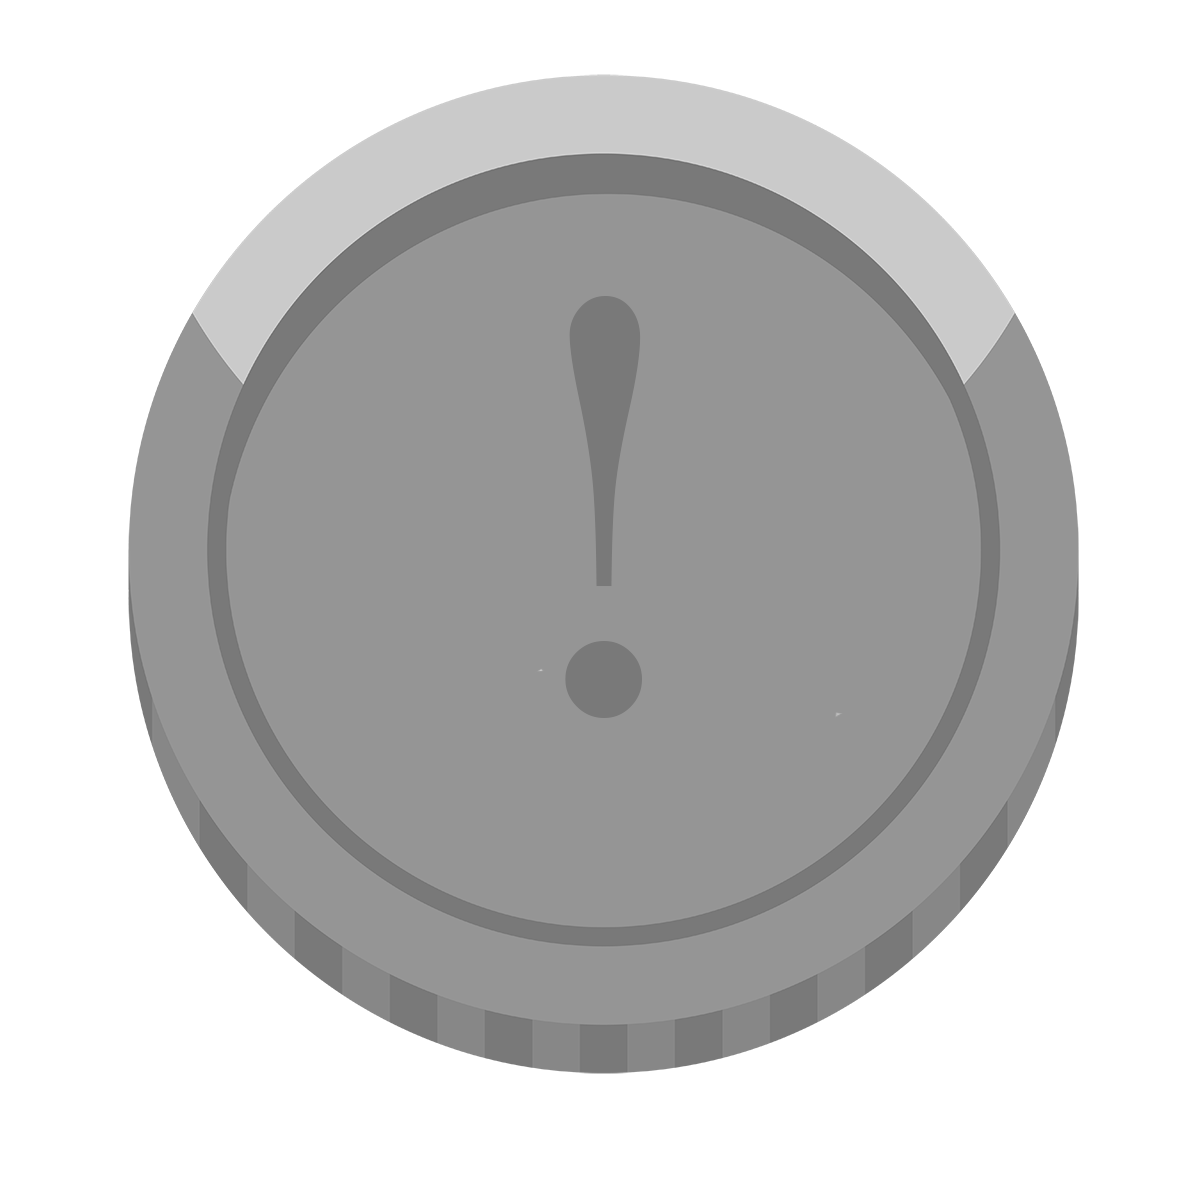
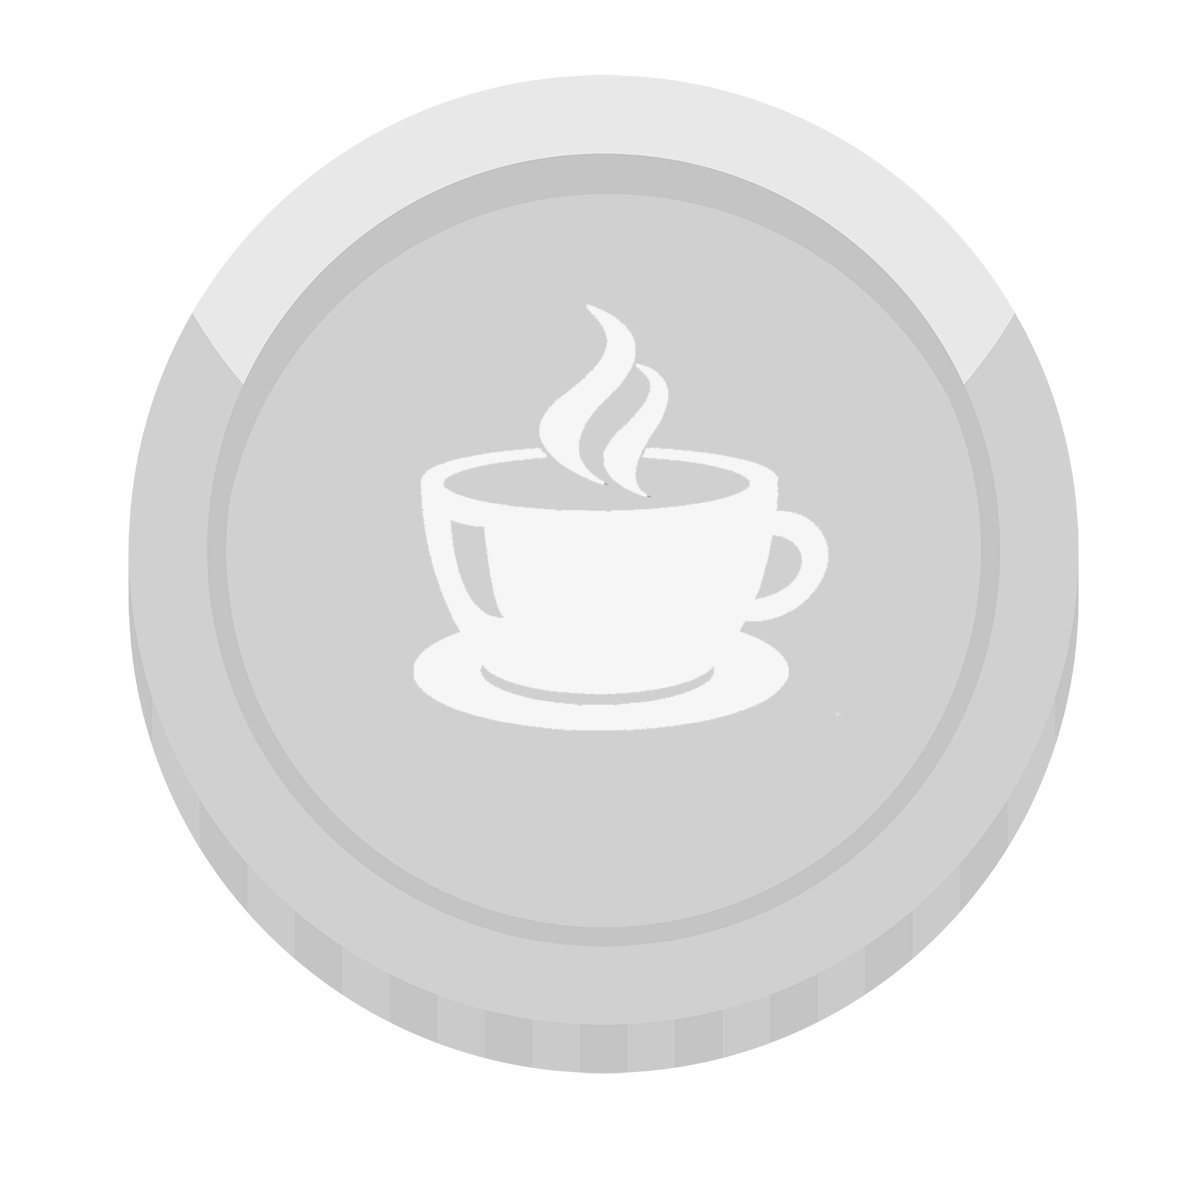
coffee version

diff --git a/lib/main.dart b/lib/main.dart
@@ -63,11 +63,11 @@ class _MyAppState extends State<MyApp> {
               Icon(
                 Icons.menu,
                 size: 32,
-                color: Colors.grey.shade800,
+                color: Color(0xFFb98068),
               ),
               Text(
                 '${Provider.of<StampProvider>(context).stamps}',
-                style: TextStyle(color: Colors.grey.shade800),
+                style: TextStyle(color: Color(0xFFb98068)),
               ),
             ],
           ),
@@ -102,7 +102,7 @@ class LoyaltyCard extends StatelessWidget {
     }
 
     return Card(
-      color: Colors.grey.shade100,
+      color: Color(0xFFf8e8d4),
       shape: RoundedRectangleBorder(
         borderRadius: BorderRadius.circular(10),
       ),
@@ -118,7 +118,7 @@ class LoyaltyCard extends StatelessWidget {
               'Besuche uns 9 mal und wir belohnen dich',
               textAlign: TextAlign.center,
               style: TextStyle(
-                  fontWeight: FontWeight.bold, color: Colors.grey.shade800),
+                  fontWeight: FontWeight.bold, color: Color(0xFFb98068)),
             ),
             Expanded(
               child: GridView.builder(
@@ -134,7 +134,8 @@ class LoyaltyCard extends StatelessWidget {
                   return Container(
                     decoration: BoxDecoration(
                       shape: BoxShape.circle,
-                      border: Border.all(color: Colors.grey, width: 1.5),
+                      border:
+                          Border.all(color: Colors.grey.shade100, width: 2.5),
                     ),
                     child: Center(
                       child: index < currentStamps
@@ -145,17 +146,18 @@ class LoyaltyCard extends StatelessWidget {
                 },
               ),
             ),
-            SizedBox(height: 20),
+            SizedBox(height: 5),
             PressableButton(
-              padding: EdgeInsets.symmetric(vertical: 8, horizontal: 12),
+              padding: EdgeInsets.symmetric(vertical: 14, horizontal: 16),
               onPressed: () {
-                Navigator.of(context).push(MaterialPageRoute(
+                stampProvider.addStamp();
+                /* Navigator.of(context).push(MaterialPageRoute(
                     builder: (context) => QRScanPage(
                           onQRViewCreated: (controller) =>
                               _onQRViewCreated(controller, stampProvider),
-                        )));
+                        ))); */
               },
-              child: Text('Scan QR Code'),
+              child: Text('Scan QR Code', style: TextStyle(fontSize: 24)),
             ),
           ],
         ),
